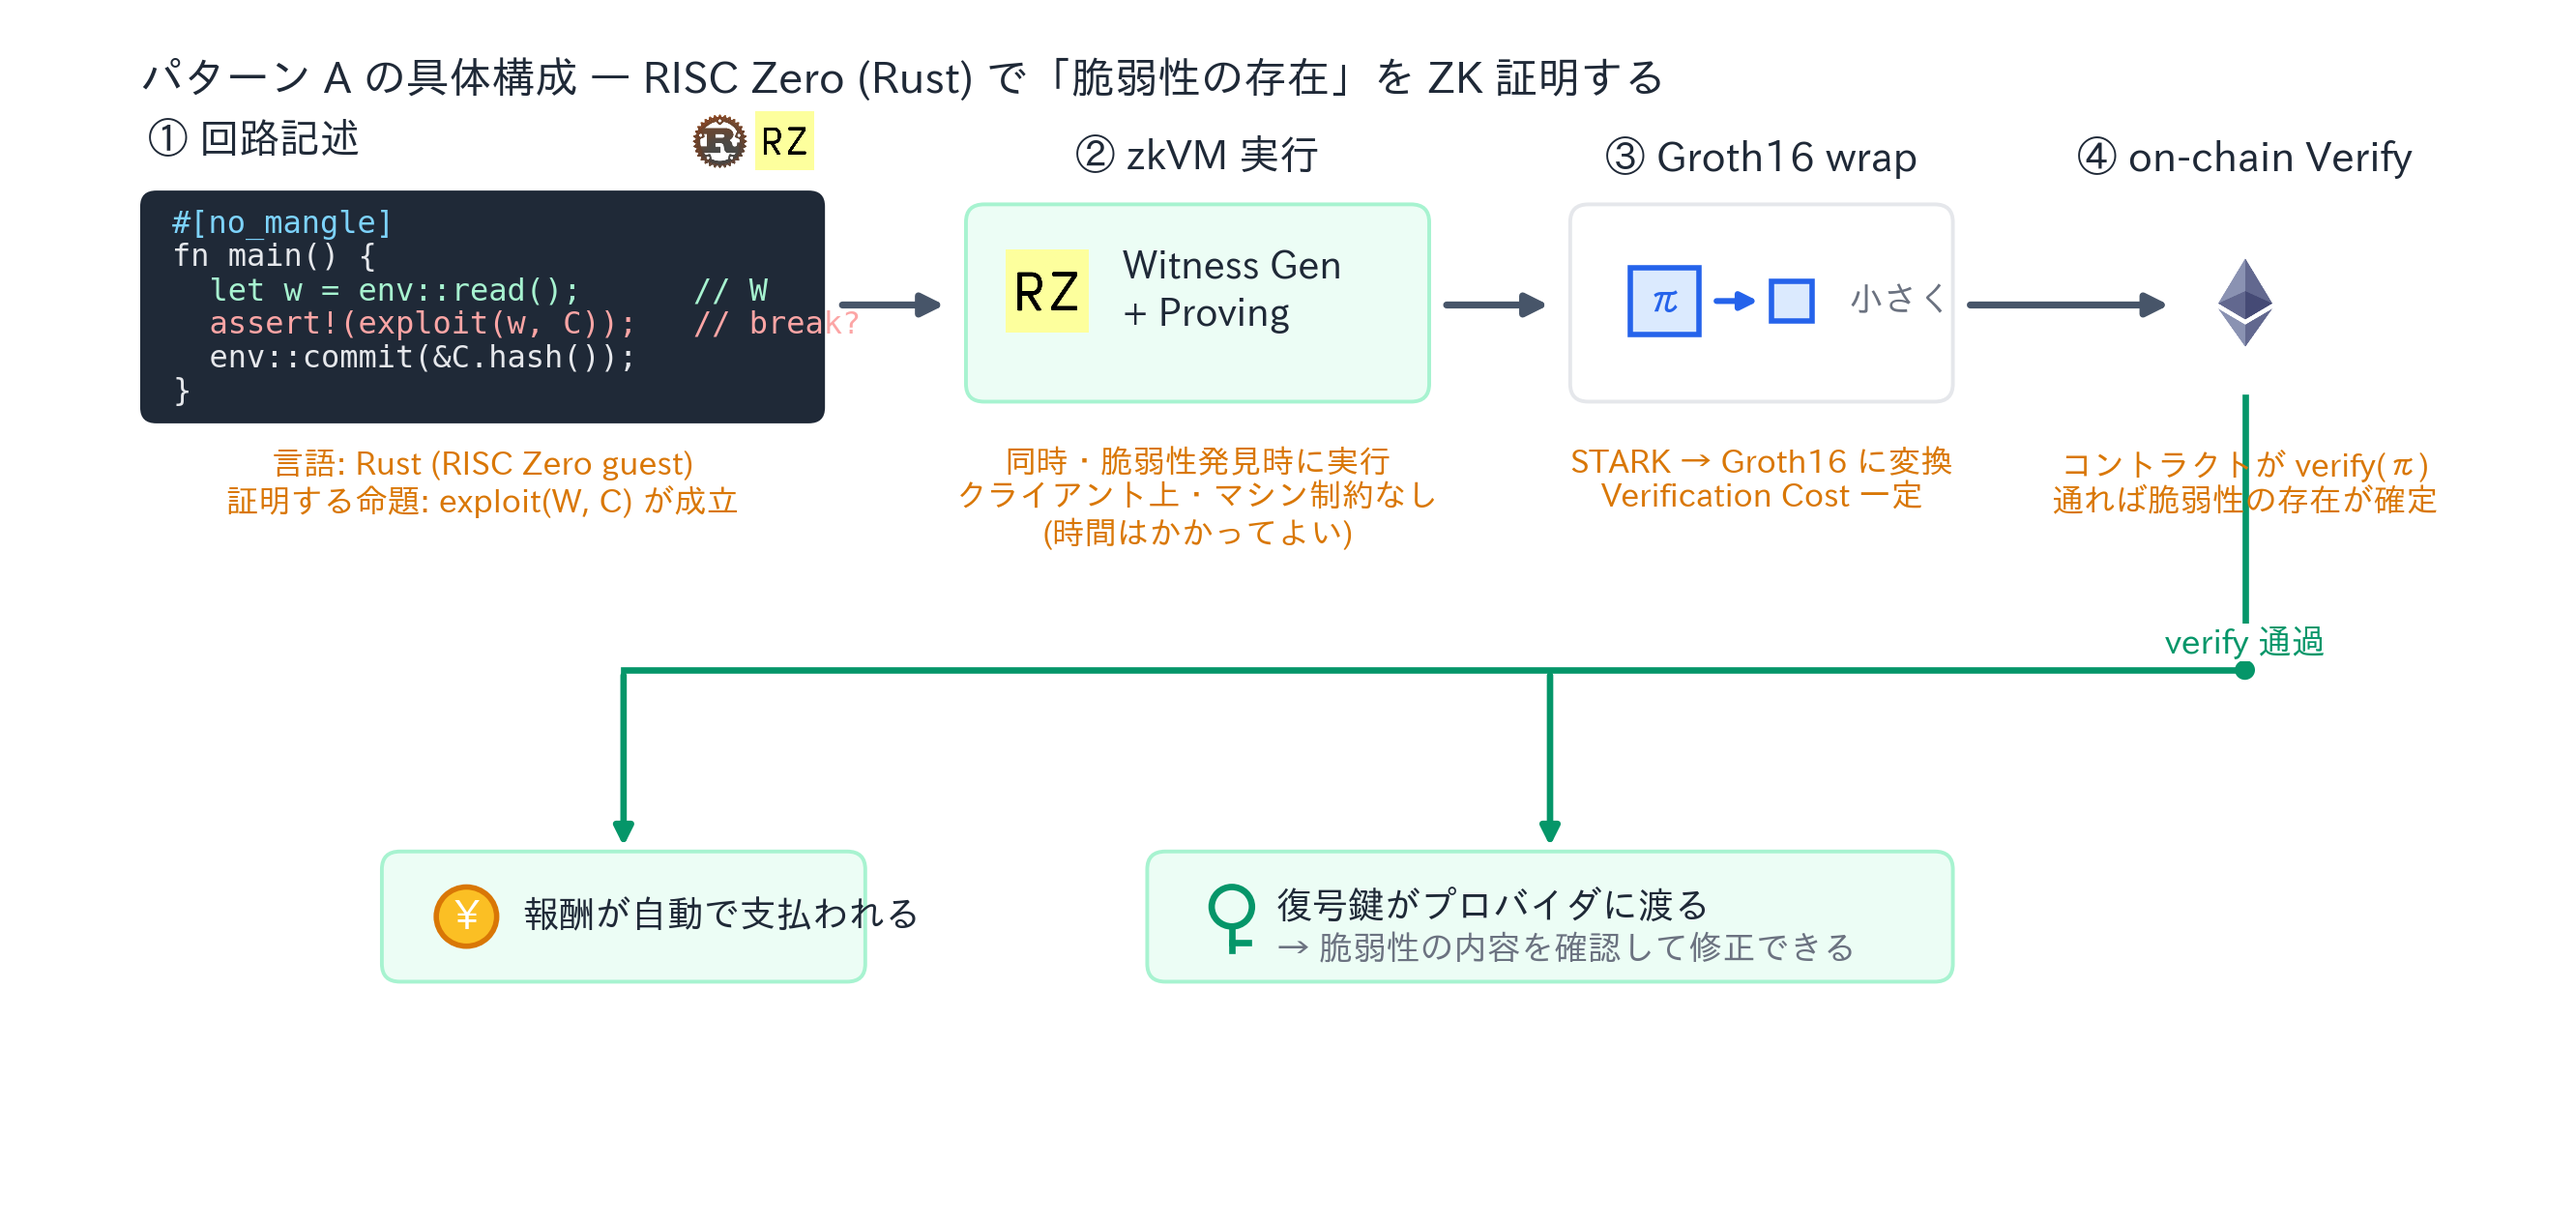
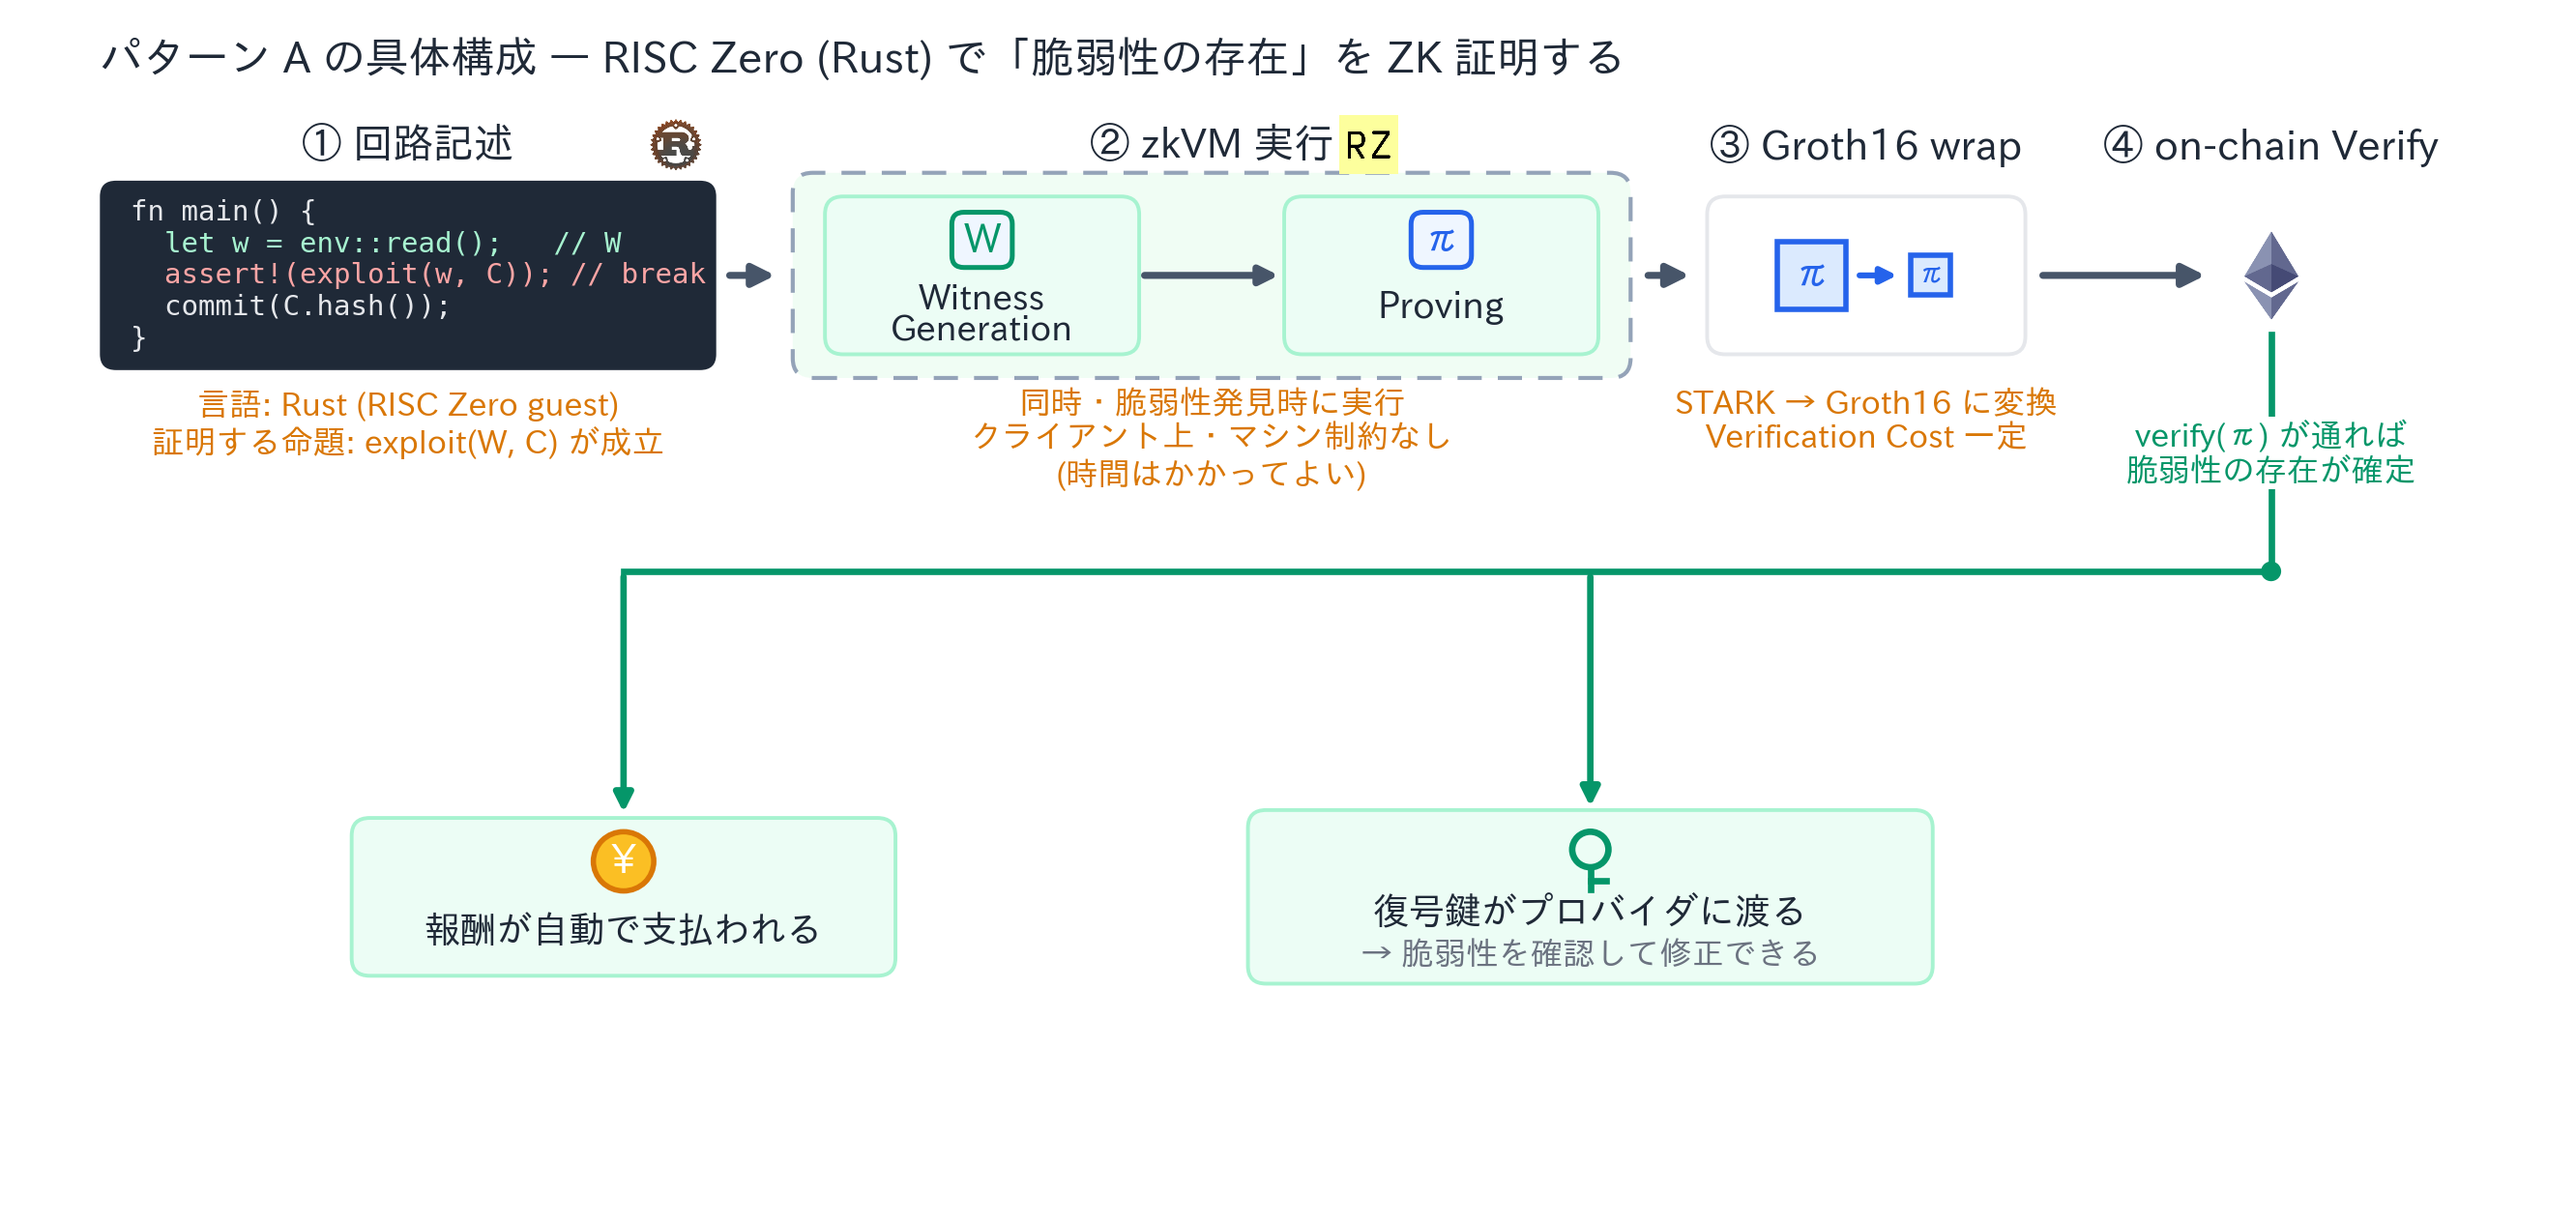
p21 (SL25c): zkVM を WitnessGen/Proving の 2 ノードに分割、box 中身を中央揃え、報酬はみ出し解消、「小さく」削除、タイトルを平易化

diff --git a/figures/patternA_arch.py b/figures/patternA_arch.py
@@ -6,7 +6,9 @@
 # 設計語彙は figures/kelp_arch.py / req_map_arch.py に従う:
 #   左→右の pipeline。各ノードは実コード / ロゴ / アイコンで見せ、
 #   機能要件 (どの言語・いつ WitnessGen/Prove/Verify するか・マシン制約) を
-#   各ノードの下に添字する。Verify 通過後は 報酬支払い + 復号鍵 → プロバイダ修正 に分岐。
+#   各ノードの下に添字する。zkVM 実行は Witness Generation と Proving の
+#   2 ノードに分ける。Verify 通過後は 報酬支払い + 復号鍵 → プロバイダ修正 に分岐。
+#   各 box の中身は center 揃えで統一する。
 
 import matplotlib
 matplotlib.use("Agg")
@@ -59,109 +61,137 @@ def node_box(x, y, w, h, fc="white", ec="#e5e7eb", lw=1.4):
                                  linewidth=lw, edgecolor=ec, facecolor=fc, zorder=2))
 
 
-def req(x, y, label):
-    """機能要件の添字 (amber)。"""
-    ax.text(x, y, label, ha="center", va="top", fontsize=12, fontweight="bold",
+def title(cx, label):
+    ax.text(cx, 566, label, ha="center", va="center", fontsize=15, fontweight="bold",
+            color=TEXT_PRIMARY, zorder=6)
+
+
+def req(cx, label):
+    """機能要件の添字 (amber, center 揃え)。"""
+    ax.text(cx, 442, label, ha="center", va="top", fontsize=12, fontweight="bold",
             color=AMBER, zorder=6)
 
 
-MAIN_Y = 430
+def chip(cx, cy, glyph, color=BLUE):
+    ax.add_patch(FancyBboxPatch((cx - 15, cy - 14), 30, 28,
+                                 boxstyle="round,pad=0,rounding_size=6",
+                                 facecolor="#eff6ff", edgecolor=color, linewidth=1.8, zorder=6))
+    ax.text(cx, cy, glyph, ha="center", va="center", fontsize=15, fontweight="bold",
+            color=color, zorder=7)
+
+
+BOX_Y, BOX_H, BC = 460, 80, 500   # box 下端 / 高さ / 縦中心
+
 # ===================================================================== ① 回路記述 (Rust / RISC Zero)
-CX1, CW = 60, 340
-ax.add_patch(FancyBboxPatch((CX1, MAIN_Y - 5), CW, 118,
+CX1, CW = 40, 306
+ax.add_patch(FancyBboxPatch((CX1, BOX_Y - 8), CW, 96,
                              boxstyle="round,pad=0,rounding_size=8",
                              facecolor=CODE_BG, edgecolor="none", zorder=3))
 code = [
-    ("#[no_mangle]", "#7dd3fc"),
     ("fn main() {", "#e5e7eb"),
-    ("  let w = env::read();      // W", "#a7f3d0"),
-    ("  assert!(exploit(w, C));   // break?", "#fca5a5"),
-    ("  env::commit(&C.hash());", "#e5e7eb"),
+    ("  let w = env::read();   // W", "#a7f3d0"),
+    ("  assert!(exploit(w, C)); // break", "#fca5a5"),
+    ("  commit(C.hash());", "#e5e7eb"),
     ("}", "#e5e7eb"),
 ]
 for i, (line, col) in enumerate(code):
-    ax.text(CX1 + 16, MAIN_Y + 96 - i * 17, line, ha="left", va="center", fontsize=11.5,
+    ax.text(CX1 + 15, BOX_Y + 72 - i * 16, line, ha="left", va="center", fontsize=10.5,
             family="monospace", color=col, zorder=5)
-add_logo(f"{LOGO_DIR}/rust.png", (CX1 + CW - 52, MAIN_Y + 138), zoom=0.16)
-add_logo(f"{LOGO_DIR}/risc0.png", (CX1 + CW - 20, MAIN_Y + 138), zoom=0.085)
-ax.text(CX1 + 4, MAIN_Y + 138, "① 回路記述", ha="left", va="center", fontsize=15,
-        fontweight="bold", color=TEXT_PRIMARY, zorder=6)
-req(CX1 + CW / 2, MAIN_Y - 18, "言語: Rust (RISC Zero guest)\n証明する命題: exploit(W, C) が成立")
+CC1 = CX1 + CW / 2
+title(CC1, "① 回路記述")
+add_logo(f"{LOGO_DIR}/rust.png", (CX1 + CW - 20, 566), zoom=0.15)
+req(CC1, "言語: Rust (RISC Zero guest)\n証明する命題: exploit(W, C) が成立")
 
-# ===================================================================== ② Witness Gen + Proving
-CX2 = 470
-node_box(CX2, MAIN_Y + 6, 230, 100, fc="#ecfdf5", ec="#a7f3d0")
-add_logo(f"{LOGO_DIR}/risc0.png", (CX2 + 40, MAIN_Y + 62), zoom=0.12)
-ax.text(CX2 + 78, MAIN_Y + 74, "Witness Gen", ha="left", va="center", fontsize=14,
+# ===================================================================== ② zkVM 実行 (WitnessGen → Proving)
+BX0, BX1 = 384, 800
+ax.add_patch(FancyBboxPatch((BX0, BOX_Y - 12), BX1 - BX0, BOX_H + 24,
+                             boxstyle="round,pad=0,rounding_size=10",
+                             facecolor="#f0fdf4", edgecolor="#94a3b8", linewidth=1.5,
+                             linestyle=(0, (6, 4)), zorder=1))
+BCEN = (BX0 + BX1) / 2
+title(BCEN, "② zkVM 実行")
+add_logo(f"{LOGO_DIR}/risc0.png", (BCEN + 78, 566), zoom=0.085)
+
+# --- Witness Generation ノード
+WGX = 478
+node_box(WGX - 78, BOX_Y, 156, BOX_H, fc="#ecfdf5", ec="#a7f3d0")
+chip(WGX, BC + 18, "W", color=GREEN)
+ax.text(WGX, BC - 12, "Witness", ha="center", va="center", fontsize=13,
         fontweight="bold", color=TEXT_PRIMARY, zorder=6)
-ax.text(CX2 + 78, MAIN_Y + 50, "+ Proving", ha="left", va="center", fontsize=14,
+ax.text(WGX, BC - 28, "Generation", ha="center", va="center", fontsize=13,
         fontweight="bold", color=TEXT_PRIMARY, zorder=6)
-ax.text(CX2 + 115, MAIN_Y + 130, "② zkVM 実行", ha="center", va="center", fontsize=15,
+
+# --- Proving ノード
+PVX = 706
+node_box(PVX - 78, BOX_Y, 156, BOX_H, fc="#ecfdf5", ec="#a7f3d0")
+chip(PVX, BC + 18, "π", color=BLUE)
+ax.text(PVX, BC - 16, "Proving", ha="center", va="center", fontsize=13.5,
         fontweight="bold", color=TEXT_PRIMARY, zorder=6)
-req(CX2 + 115, MAIN_Y - 18, "同時・脆弱性発見時に実行\nクライアント上・マシン制約なし\n(時間はかかってよい)")
-straight((CX1 + CW + 6, MAIN_Y + 55), (CX2 - 8, MAIN_Y + 55))
+
+straight((WGX + 78, BC), (PVX - 78, BC), mut=14)   # WitnessGen → Proving
+req(BCEN, "同時・脆弱性発見時に実行\nクライアント上・マシン制約なし\n(時間はかかってよい)")
+straight((CX1 + CW + 4, BC), (BX0 - 6, BC))         # 回路記述 → zkVM
 
 # ===================================================================== ③ Groth16 wrap
-CX3 = 770
-node_box(CX3, MAIN_Y + 6, 190, 100, fc="white")
-# 変換アイコン: STARK proof → 小さな SNARK
-ax.add_patch(Rectangle((CX3 + 30, MAIN_Y + 40), 34, 34, facecolor="#dbeafe",
+GX0, GW = 838, 158
+node_box(GX0, BOX_Y, GW, BOX_H, fc="white")
+GCEN = GX0 + GW / 2
+# 変換アイコン: 大きな STARK proof → 小さな SNARK (center 揃え, ラベル無し)
+ax.add_patch(Rectangle((GCEN - 44, BC - 17), 34, 34, facecolor="#dbeafe",
                        edgecolor=BLUE, linewidth=2, zorder=6))
-ax.text(CX3 + 47, MAIN_Y + 57, "π", ha="center", va="center", fontsize=15,
+ax.text(GCEN - 27, BC, "π", ha="center", va="center", fontsize=15,
         fontweight="bold", color=BLUE, zorder=7)
-straight((CX3 + 70, MAIN_Y + 57), (CX3 + 96, MAIN_Y + 57), color=BLUE, lw=2.2, mut=13)
-ax.add_patch(Rectangle((CX3 + 100, MAIN_Y + 47), 20, 20, facecolor="#dbeafe",
+straight((GCEN - 6, BC), (GCEN + 18, BC), color=BLUE, lw=2.2, mut=12)
+ax.add_patch(Rectangle((GCEN + 22, BC - 10), 20, 20, facecolor="#dbeafe",
                        edgecolor=BLUE, linewidth=2, zorder=6))
-ax.text(CX3 + 138, MAIN_Y + 57, "小さく", ha="left", va="center", fontsize=13,
-        fontweight="bold", color=TEXT_MUTED, zorder=6)
-ax.text(CX3 + 95, MAIN_Y + 130, "③ Groth16 wrap", ha="center", va="center", fontsize=15,
-        fontweight="bold", color=TEXT_PRIMARY, zorder=6)
-req(CX3 + 95, MAIN_Y - 18, "STARK → Groth16 に変換\nVerification Cost 一定")
-straight((CX2 + 230 + 6, MAIN_Y + 55), (CX3 - 8, MAIN_Y + 55))
+ax.text(GCEN + 32, BC, "π", ha="center", va="center", fontsize=11,
+        fontweight="bold", color=BLUE, zorder=7)
+title(GCEN, "③ Groth16 wrap")
+req(GCEN, "STARK → Groth16 に変換\nVerification Cost 一定")
+straight((BX1 + 6, BC), (GX0 - 6, BC))              # zkVM → Groth16
 
 # ===================================================================== ④ on-chain Verify
-CX4 = 1050
-add_logo(f"{LOGO_DIR}/ethereum.png", (CX4 + 55, MAIN_Y + 56), zoom=0.14)
-ax.text(CX4 + 55, MAIN_Y + 130, "④ on-chain Verify", ha="center", va="center", fontsize=15,
-        fontweight="bold", color=TEXT_PRIMARY, zorder=6)
-req(CX4 + 55, MAIN_Y - 18, "コントラクトが verify(π)\n通れば脆弱性の存在が確定")
-straight((CX3 + 190 + 6, MAIN_Y + 55), (CX4 + 20, MAIN_Y + 55))
+VX = 1118
+add_logo(f"{LOGO_DIR}/ethereum.png", (VX, BC), zoom=0.14)
+title(VX, "④ on-chain Verify")
+straight((GX0 + GW + 6, BC), (VX - 30, BC))         # Groth16 → Verify
 
 # ===================================================================== ⑤ 分岐 (報酬 + 復号鍵)
-BR_Y = 150
-COL_Y = 300   # 要件添字の下を通す水平コレクタ
-ax.plot([CX4 + 55, CX4 + 55], [MAIN_Y + 8, COL_Y], color=GREEN, linewidth=2.4, zorder=4)
-ax.text(CX4 + 55, COL_Y + 14, "verify 通過", ha="center", va="center", fontsize=12.5,
-        fontweight="bold", color=GREEN, zorder=6,
+COL_Y = 350
+BR_C = 185         # 報酬 / 復号鍵ノードの縦中心
+# Verify から下へ (要件添字が無い列なので直下に降ろせる)
+ax.plot([VX, VX], [BC - 30, COL_Y], color=GREEN, linewidth=2.4, zorder=4)
+ax.add_patch(Circle((VX, COL_Y), 5, facecolor=GREEN, edgecolor="none", zorder=5))
+ax.text(VX, 410, "verify(π) が通れば\n脆弱性の存在が確定", ha="center", va="center",
+        fontsize=12, fontweight="bold", color=GREEN, zorder=6,
         bbox=dict(facecolor="white", edgecolor="none", pad=1))
-ax.add_patch(Circle((CX4 + 55, COL_Y), 5, facecolor=GREEN, edgecolor="none", zorder=5))
-# 左枝: 報酬支払い / 右枝: 復号鍵
-ax.plot([300, CX4 + 55], [COL_Y, COL_Y], color=GREEN, linewidth=2.4, zorder=4)
-straight((300, COL_Y), (300, BR_Y + 58), color=GREEN, lw=2.4, mut=14)
-straight((760, COL_Y), (760, BR_Y + 58), color=GREEN, lw=2.4, mut=14)
+# コレクタ + 2 枝
+ax.plot([300, VX], [COL_Y, COL_Y], color=GREEN, linewidth=2.4, zorder=4)
+straight((300, COL_Y), (300, BR_C + 40), color=GREEN, lw=2.4, mut=14)
+straight((780, COL_Y), (780, BR_C + 43), color=GREEN, lw=2.4, mut=14)
 
-# 報酬ノード
-node_box(180, BR_Y - 8, 240, 66, fc="#ecfdf5", ec="#a7f3d0")
-ax.add_patch(Circle((222, BR_Y + 25), 15, facecolor="#fbbf24", edgecolor="#d97706",
+# --- 報酬ノード (center 揃え)
+node_box(165, BR_C - 40, 270, 80, fc="#ecfdf5", ec="#a7f3d0")
+ax.add_patch(Circle((300, BR_C + 18), 15, facecolor="#fbbf24", edgecolor="#d97706",
                     linewidth=2, zorder=6))
-ax.text(222, BR_Y + 25, "¥", ha="center", va="center", fontsize=15, fontweight="bold",
+ax.text(300, BR_C + 18, "¥", ha="center", va="center", fontsize=15, fontweight="bold",
         color="white", zorder=7)
-ax.text(250, BR_Y + 25, "報酬が自動で支払われる", ha="left", va="center", fontsize=13.5,
+ax.text(300, BR_C - 18, "報酬が自動で支払われる", ha="center", va="center", fontsize=13.5,
         fontweight="bold", color=TEXT_PRIMARY, zorder=6)
 
-# 復号鍵 → プロバイダ修正ノード
-node_box(560, BR_Y - 8, 400, 66, fc="#ecfdf5", ec="#a7f3d0")
+# --- 復号鍵ノード (center 揃え)
+node_box(610, BR_C - 44, 340, 88, fc="#ecfdf5", ec="#a7f3d0")
 # 鍵アイコン
-ax.add_patch(Circle((602, BR_Y + 30), 10, facecolor="none", edgecolor=GREEN, linewidth=2.4, zorder=6))
-ax.plot([602, 602], [BR_Y + 20, BR_Y + 8], color=GREEN, linewidth=2.4, zorder=6)
-ax.plot([602, 610], [BR_Y + 12, BR_Y + 12], color=GREEN, linewidth=2.4, zorder=6)
-ax.text(624, BR_Y + 30, "復号鍵がプロバイダに渡る", ha="left", va="center", fontsize=13.5,
+ax.add_patch(Circle((780, BR_C + 24), 9, facecolor="none", edgecolor=GREEN, linewidth=2.4, zorder=6))
+ax.plot([780, 780], [BR_C + 15, BR_C + 4], color=GREEN, linewidth=2.4, zorder=6)
+ax.plot([780, 788], [BR_C + 8, BR_C + 8], color=GREEN, linewidth=2.4, zorder=6)
+ax.text(780, BR_C - 8, "復号鍵がプロバイダに渡る", ha="center", va="center", fontsize=13.5,
         fontweight="bold", color=TEXT_PRIMARY, zorder=6)
-ax.text(624, BR_Y + 8, "→ 脆弱性の内容を確認して修正できる", ha="left", va="center",
-        fontsize=12.5, fontweight="bold", color=TEXT_MUTED, zorder=6)
+ax.text(780, BR_C - 30, "→ 脆弱性を確認して修正できる", ha="center", va="center",
+        fontsize=12, fontweight="bold", color=TEXT_MUTED, zorder=6)
 
 # 見出し
-ax.text(60, 600, "パターン A の具体構成 — RISC Zero (Rust) で「脆弱性の存在」を ZK 証明する",
+ax.text(40, 610, "パターン A の具体構成 — RISC Zero (Rust) で「脆弱性の存在」を ZK 証明する",
         ha="left", va="center", fontsize=16, fontweight="bold", color=TEXT_PRIMARY, zorder=6)
 
 plt.tight_layout(pad=1.0)

diff --git a/slides/SL25c.md b/slides/SL25c.md
@@ -2,7 +2,7 @@
 layout: default
 ---
 
-# パターン A を機能要件に落とす — <span class="text-amber-700">RISC Zero × Rust</span>
+# パターン A を実装する — <span class="text-amber-700">RISC Zero × Rust</span>
 
 <div class="mt-2 flex justify-center">
 <img src="/images/patternA_arch.png" class="max-h-[470px] w-auto object-contain" />
